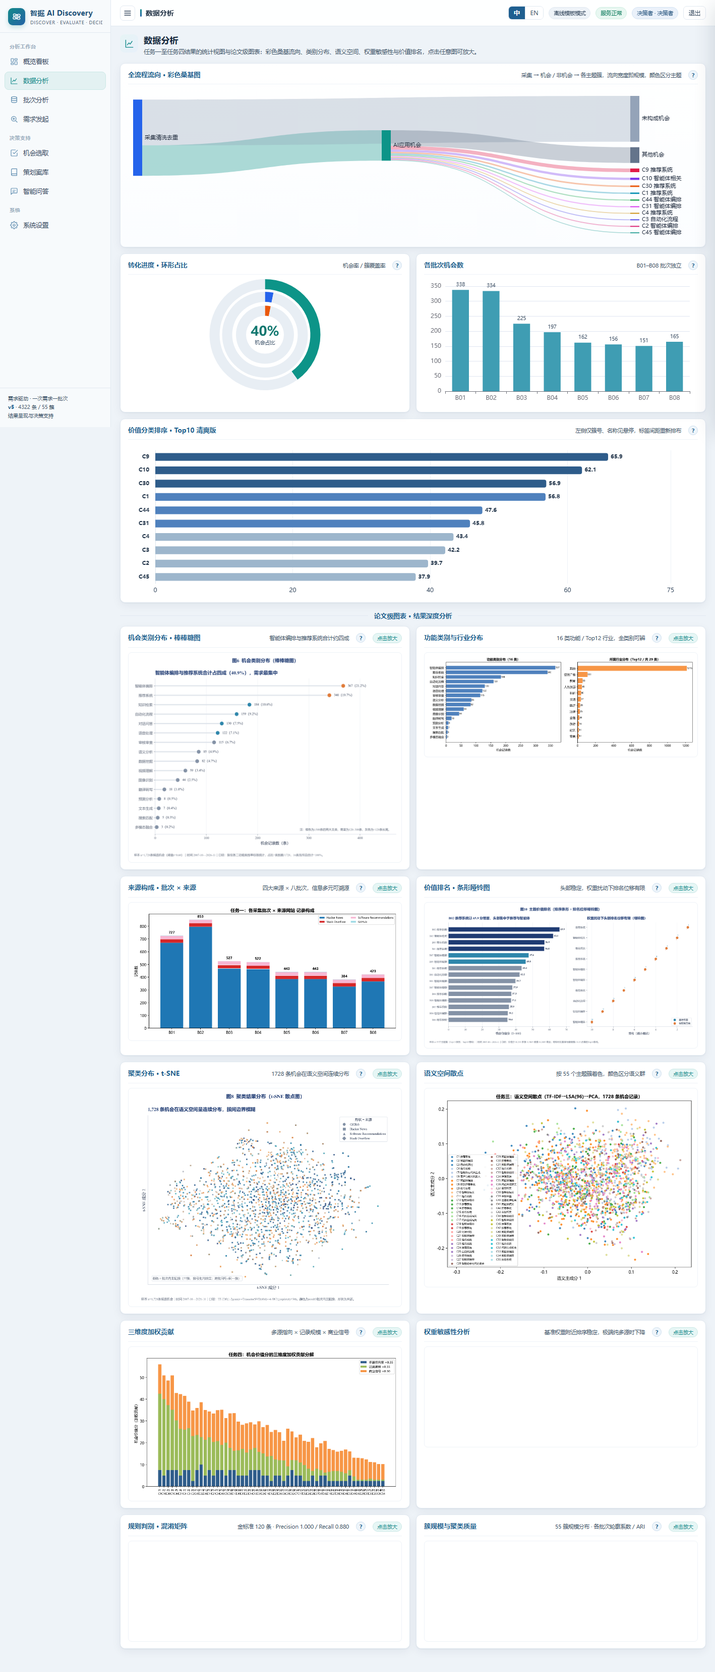
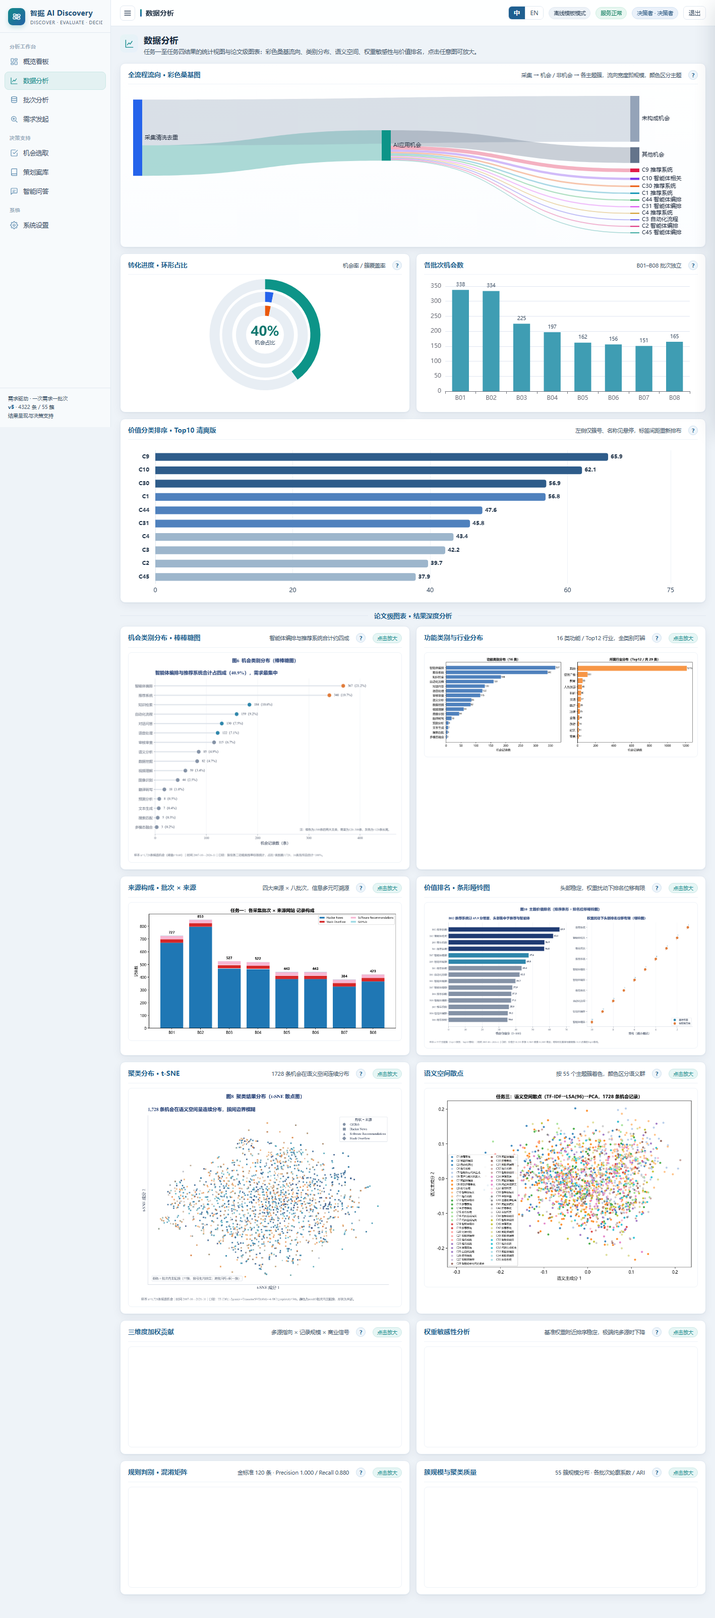
任务五界面v7：概览恢复动态交互图(散点/堆叠柱/来源玫瑰)+悬停tooltip；论文静态图加悬停说明气泡

diff --git a/竞赛提交/源代码和运行说明/任务五/templates/index.html b/竞赛提交/源代码和运行说明/任务五/templates/index.html
@@ -180,7 +180,7 @@
     <section class="page" id="page-overview">
       <div class="page-head">
         <div class="ph-icon"><svg viewBox="0 0 24 24" fill="none" stroke="currentColor" stroke-width="1.8" stroke-linecap="round" stroke-linejoin="round"><rect x="3" y="3" width="7" height="9" rx="1"/><rect x="14" y="3" width="7" height="5" rx="1"/><rect x="14" y="12" width="7" height="9" rx="1"/><rect x="3" y="16" width="7" height="5" rx="1"/></svg></div>
-        <div><h2 data-i18n>概览看板</h2><p data-i18n>任务一至任务四核心结果一览：数据规模、机会分布、主题簇价值与信息多元性。点击任意图可放大查看细节。</p></div>
+        <div><h2 data-i18n>概览看板</h2><p data-i18n>任务一至任务四核心结果一览：数据规模、机会分布、主题簇价值与信息多元性。悬停任意图可查看数值，点击图表可查看说明。</p></div>
       </div>
       <div class="kpis">
         <div class="kpi"><div class="lab" data-i18n>采集清洗去重</div><div class="val" id="kpiRecords">—</div><div class="note" data-i18n>任务一 result1.csv</div></div>
@@ -189,19 +189,18 @@
         <div class="kpi"><div class="lab" data-i18n>最高价值主题簇</div><div class="val" id="kpiTop">—</div><div class="note" id="kpiTopNote" data-i18n>任务四评分</div></div>
       </div>
 
-      <div class="paper-figure card" data-zoom="figures/value_dumbbell.png" data-cap="主题价值排名（排序条形 + 排名位移哑铃图）">
-        <div class="card-head"><h2 data-i18n>主题簇价值排名 · 条形哑铃图</h2><span class="hint" data-i18n>B02 推荐系统以 65.9 分居首，头部集中于推荐与智能体</span><button class="help-btn" data-help="over-rank" data-i18n-title="使用说明" title="使用说明">?</button><span class="zoom-badge" data-i18n>点击放大</span></div>
-        <div class="fig-box"><img src="{{ url_for('static', filename='figures/value_dumbbell.png') }}" alt="主题价值排名条形哑铃图" loading="lazy"></div>
-      </div>
-
-      <div class="grid2" style="margin-top:12px">
-        <div class="paper-figure card" data-zoom="figures/contrib3d.png" data-cap="机会价值分的三维度加权贡献分解">
-          <div class="card-head"><h2 data-i18n>价值分三维度加权贡献</h2><span class="hint" data-i18n>多源指向 × 记录规模 × 商业信号</span><button class="help-btn" data-help="over-contrib" data-i18n-title="使用说明" title="使用说明">?</button><span class="zoom-badge" data-i18n>点击放大</span></div>
-          <div class="fig-box"><img src="{{ url_for('static', filename='figures/contrib3d.png') }}" alt="三维度加权贡献图" loading="lazy"></div>
+      <div class="grid3" style="margin-top:12px">
+        <div class="card">
+          <div class="card-head"><h2 data-i18n>主题簇价值排序</h2><span class="hint" data-i18n>悬停查看簇名、价值分与记录数</span><button class="help-btn" data-help="over-rank" data-i18n-title="使用说明" title="使用说明">?</button></div>
+          <div class="chart" id="chartRank" style="height:250px"></div>
         </div>
-        <div class="paper-figure card" data-zoom="figures/source_composition.png" data-cap="各采集批次 × 来源网站记录构成（信息多元性）">
-          <div class="card-head"><h2 data-i18n>信息来源多元构成</h2><span class="hint" data-i18n>四大来源 × 八批次，多源交叉印证</span><button class="help-btn" data-help="over-heat" data-i18n-title="使用说明" title="使用说明">?</button><span class="zoom-badge" data-i18n>点击放大</span></div>
-          <div class="fig-box"><img src="{{ url_for('static', filename='figures/source_composition.png') }}" alt="各批次来源构成图" loading="lazy"></div>
+        <div class="card">
+          <div class="card-head"><h2 data-i18n>价值分三维度贡献</h2><span class="hint" data-i18n>悬停查看各维度得分</span><button class="help-btn" data-help="over-contrib" data-i18n-title="使用说明" title="使用说明">?</button></div>
+          <div class="chart" id="chartContrib" style="height:250px"></div>
+        </div>
+        <div class="card">
+          <div class="card-head"><h2 data-i18n>信息来源多元构成</h2><span class="hint" data-i18n>悬停查看各来源记录数与占比</span><button class="help-btn" data-help="over-source" data-i18n-title="使用说明" title="使用说明">?</button></div>
+          <div class="chart" id="chartSource" style="height:250px"></div>
         </div>
       </div>
     </section>
@@ -312,55 +311,55 @@
       <div class="section-divider" style="margin-top:18px"><span data-i18n>论文级图表 · 结果深度分析</span></div>
 
       <div class="grid2" style="margin-top:12px">
-        <div class="paper-figure card" data-zoom="figures/lollipop.png" data-cap="机会类别分布（棒棒糖图）">
+        <div class="paper-figure card" data-zoom="figures/lollipop.png" data-desc="棒棒糖图：每个圆点代表一类应用机会，点的位置表示该类机会的记录规模。智能体编排与推荐系统合计约占四成，是机会最集中的两类。" data-cap="机会类别分布（棒棒糖图）">
           <div class="card-head"><h2 data-i18n>机会类别分布 · 棒棒糖图</h2><span class="hint" data-i18n>智能体编排与推荐系统合计约四成</span><button class="help-btn" data-help="ins-func" data-i18n-title="使用说明" title="使用说明">?</button><span class="zoom-badge" data-i18n>点击放大</span></div>
           <div class="fig-box"><img src="{{ url_for('static', filename='figures/lollipop.png') }}" alt="机会类别分布棒棒糖图" loading="lazy"></div>
         </div>
-        <div class="paper-figure card" data-zoom="figures/func_industry.png" data-cap="功能类别与行业分布">
+        <div class="paper-figure card" data-zoom="figures/func_industry.png" data-desc="分组条形图：上半部分展示16类功能类别分布，下半部分展示Top12行业分布，全部类别均可辨识，避免“其他”占比过高掩盖细节。" data-cap="功能类别与行业分布">
           <div class="card-head"><h2 data-i18n>功能类别与行业分布</h2><span class="hint" data-i18n>16 类功能 / Top12 行业，全类别可辨</span><button class="help-btn" data-help="ins-ind" data-i18n-title="使用说明" title="使用说明">?</button><span class="zoom-badge" data-i18n>点击放大</span></div>
           <div class="fig-box"><img src="{{ url_for('static', filename='figures/func_industry.png') }}" alt="功能类别与行业分布图" loading="lazy"></div>
         </div>
       </div>
 
       <div class="grid2" style="margin-top:12px">
-        <div class="paper-figure card" data-zoom="figures/source_composition.png" data-cap="各采集批次 × 来源网站记录构成">
+        <div class="paper-figure card" data-zoom="figures/source_composition.png" data-desc="堆叠柱状图：横轴为B01–B08八个采集批次，每段颜色代表一个来源网站。四色交叉出现说明信息来自多个公开渠道，可溯源、更可信。" data-cap="各采集批次 × 来源网站记录构成">
           <div class="card-head"><h2 data-i18n>来源构成 · 批次 × 来源</h2><span class="hint" data-i18n>四大来源 × 八批次，信息多元可溯源</span><button class="help-btn" data-help="ins-source" data-i18n-title="使用说明" title="使用说明">?</button><span class="zoom-badge" data-i18n>点击放大</span></div>
           <div class="fig-box"><img src="{{ url_for('static', filename='figures/source_composition.png') }}" alt="批次来源构成图" loading="lazy"></div>
         </div>
-        <div class="paper-figure card" data-zoom="figures/value_dumbbell.png" data-cap="主题价值排名（条形 + 排名位移哑铃图）">
+        <div class="paper-figure card" data-zoom="figures/value_dumbbell.png" data-desc="哑铃图：横轴为机会价值分，两个端点分别表示基准排序与权重扰动后的排序。连线越短说明该主题簇在权重变化下排名越稳定，头部簇基本不动。" data-cap="主题价值排名（条形 + 排名位移哑铃图）">
           <div class="card-head"><h2 data-i18n>价值排名 · 条形哑铃图</h2><span class="hint" data-i18n>头部稳定，权重扰动下排名位移有限</span><button class="help-btn" data-help="ins-value" data-i18n-title="使用说明" title="使用说明">?</button><span class="zoom-badge" data-i18n>点击放大</span></div>
           <div class="fig-box"><img src="{{ url_for('static', filename='figures/value_dumbbell.png') }}" alt="价值排名条形哑铃图" loading="lazy"></div>
         </div>
       </div>
 
       <div class="grid2" style="margin-top:12px">
-        <div class="paper-figure card" data-zoom="figures/tsne.png" data-cap="聚类结果分布（t-SNE 散点图）">
+        <div class="paper-figure card" data-zoom="figures/tsne.png" data-desc="t-SNE散点图：把1728条机会的高维文本语义压缩到二维平面，每个点是一条机会，颜色代表所属主题簇。同类聚在一起说明聚类效果好。" data-cap="聚类结果分布（t-SNE 散点图）">
           <div class="card-head"><h2 data-i18n>聚类分布 · t-SNE</h2><span class="hint" data-i18n>1728 条机会在语义空间连续分布</span><button class="help-btn" data-help="ins-tsne" data-i18n-title="使用说明" title="使用说明">?</button><span class="zoom-badge" data-i18n>点击放大</span></div>
           <div class="fig-box"><img src="{{ url_for('static', filename='figures/tsne.png') }}" alt="聚类分布t-SNE图" loading="lazy"></div>
         </div>
-        <div class="paper-figure card" data-zoom="figures/semantic_scatter.png" data-cap="语义空间散点（TF-IDF → LSA → PCA）">
+        <div class="paper-figure card" data-zoom="figures/semantic_scatter.png" data-desc="语义空间散点：文本经TF-IDF→LSA→PCA逐步降维后投影到二维，颜色区分55个主题簇。点分布连续说明主题之间存在语义过渡。" data-cap="语义空间散点（TF-IDF → LSA → PCA）">
           <div class="card-head"><h2 data-i18n>语义空间散点</h2><span class="hint" data-i18n>按 55 个主题簇着色，颜色区分语义群</span><button class="help-btn" data-help="ins-semantic" data-i18n-title="使用说明" title="使用说明">?</button><span class="zoom-badge" data-i18n>点击放大</span></div>
           <div class="fig-box"><img src="{{ url_for('static', filename='figures/semantic_scatter.png') }}" alt="语义空间散点图" loading="lazy"></div>
         </div>
       </div>
 
       <div class="grid2" style="margin-top:12px">
-        <div class="paper-figure card" data-zoom="figures/contrib3d.png" data-cap="机会价值分的三维度加权贡献分解">
+        <div class="paper-figure card" data-zoom="figures/contrib3d.png" data-desc="堆叠柱状图：把每个主题簇的价值分拆成多源指向度、记录规模、商业信号三项贡献。柱子越高总分越高，颜色段越宽表示该项贡献越大。" data-cap="机会价值分的三维度加权贡献分解">
           <div class="card-head"><h2 data-i18n>三维度加权贡献</h2><span class="hint" data-i18n>多源指向 × 记录规模 × 商业信号</span><button class="help-btn" data-help="ins-contrib" data-i18n-title="使用说明" title="使用说明">?</button><span class="zoom-badge" data-i18n>点击放大</span></div>
           <div class="fig-box"><img src="{{ url_for('static', filename='figures/contrib3d.png') }}" alt="三维度加权贡献图" loading="lazy"></div>
         </div>
-        <div class="paper-figure card" data-zoom="figures/sensitivity.png" data-cap="权重敏感性分析（热力图 + 小多图 + 参数曲线）">
+        <div class="paper-figure card" data-zoom="figures/sensitivity.png" data-desc="小多图+热力图：改变三项权重时观察Top5主题簇与排序相关系数的变化。基准权重附近曲线平稳，说明排名结论稳健、不依赖单一权重。" data-cap="权重敏感性分析（热力图 + 小多图 + 参数曲线）">
           <div class="card-head"><h2 data-i18n>权重敏感性分析</h2><span class="hint" data-i18n>基准权重附近排序稳定，极端纯多源时下降</span><button class="help-btn" data-help="ins-sens" data-i18n-title="使用说明" title="使用说明">?</button><span class="zoom-badge" data-i18n>点击放大</span></div>
           <div class="fig-box"><img src="{{ url_for('static', filename='figures/sensitivity.png') }}" alt="权重敏感性分析图" loading="lazy"></div>
         </div>
       </div>
 
       <div class="grid2" style="margin-top:12px">
-        <div class="paper-figure card" data-zoom="figures/confusion.png" data-cap="规则判别混淆矩阵（金标准评估）">
+        <div class="paper-figure card" data-zoom="figures/confusion.png" data-desc="混淆矩阵：用120条人工金标准检验规则判别的准确性。主对角线越集中说明判得越准，本模型Precision 1.000、Recall 0.880。" data-cap="规则判别混淆矩阵（金标准评估）">
           <div class="card-head"><h2 data-i18n>规则判别 · 混淆矩阵</h2><span class="hint" data-i18n>金标准 120 条 · Precision 1.000 / Recall 0.880</span><button class="help-btn" data-help="ins-confmat" data-i18n-title="使用说明" title="使用说明">?</button><span class="zoom-badge" data-i18n>点击放大</span></div>
           <div class="fig-box"><img src="{{ url_for('static', filename='figures/confusion.png') }}" alt="混淆矩阵图" loading="lazy"></div>
         </div>
-        <div class="paper-figure card" data-zoom="figures/cluster_quality.png" data-cap="簇规模与聚类质量指标（轮廓系数 / ARI）">
+        <div class="paper-figure card" data-zoom="figures/cluster_quality.png" data-desc="组合图：左侧为55个主题簇的记录数规模分布，右侧为各批次的轮廓系数与ARI指标，用于衡量聚类是否紧凑、批次间是否一致。" data-cap="簇规模与聚类质量指标（轮廓系数 / ARI）">
           <div class="card-head"><h2 data-i18n>簇规模与聚类质量</h2><span class="hint" data-i18n>55 簇规模分布 · 各批次轮廓系数 / ARI</span><button class="help-btn" data-help="ins-quality" data-i18n-title="使用说明" title="使用说明">?</button><span class="zoom-badge" data-i18n>点击放大</span></div>
           <div class="fig-box"><img src="{{ url_for('static', filename='figures/cluster_quality.png') }}" alt="簇规模与质量指标图" loading="lazy"></div>
         </div>
@@ -509,8 +508,10 @@
   <figure>
     <img id="lbImg" src="" alt="">
     <figcaption id="lbCap"></figcaption>
+    <p class="lb-desc" id="lbDesc"></p>
   </figure>
 </div>
+<div id="figTip" role="tooltip"></div>
 
 <div id="toast"></div>
 <script src="{{ url_for('static', filename='app.js') }}"></script>

diff --git a/竞赛提交/源代码和运行说明/任务五/static/app.js b/竞赛提交/源代码和运行说明/任务五/static/app.js
@@ -112,31 +112,40 @@
       records: T('簇内机会记录数'), value: T('机会价值分'), score: T('得分'),
       multi: T('多源指向度'), scale: T('记录规模'), biz: T('商业信号'),
       recordsTip: T('记录数'), sourcesTip: T('来源数'), priorityTip: T('优先级'),
-      valueTip: T('价值分'), countUnit: T('条'),
+      valueTip: T('价值分'), countUnit: T('条'), shareTip: T('占比'),
     };
   }
 
   function initCharts() {
-    // 概览已改为论文级静态图（点击放大），原来的 ECharts 容器已移除
     if (!el('chartRank')) return;
     if (state.chartsReady || typeof echarts === 'undefined' || !state.clusters.length) return;
     state.chartsReady = true;
     const cs = state.clusters;
     const m = state.meta;
     const X = chartText();
+    const TIP = {
+      bg: '#16283c', border: '#3d5266', text: '#eaf2f8',
+      extraCss: 'box-shadow:0 6px 20px rgba(16,40,64,.22);border-radius:7px;',
+    };
 
+    // 图1：主题簇价值排序（气泡散点：记录数 × 价值分，气泡大小=来源数，颜色=优先级）
     const rank = echarts.init(el('chartRank'));
     rank.setOption({
-      grid: { left: 52, right: 22, top: 18, bottom: 42 },
+      grid: { left: 52, right: 22, top: 22, bottom: 44 },
       tooltip: {
+        backgroundColor: TIP.bg, borderColor: TIP.border, textStyle: { color: TIP.text, fontSize: 12 },
+        extraCssText: TIP.extraCss,
         formatter: (p) => {
           const d = p.data;
-          return '<b>' + d[5] + ' ' + d[6] + '</b><br/>' + X.recordsTip + '：' + d[0] + '<br/>' + X.valueTip + '：' + d[1] +
-            '<br/>' + X.sourcesTip + '：' + d[2] + '<br/>' + X.priorityTip + '：' + d[3];
+          return '<b>' + d[5] + ' ' + d[6] + '</b><br/>' + X.recordsTip + '：' + d[0] + ' ' + X.countUnit +
+            '<br/>' + X.valueTip + '：' + d[1] + '<br/>' + X.sourcesTip + '：' + d[2] +
+            '<br/>' + X.priorityTip + '：#' + d[3];
         },
       },
-      xAxis: { name: X.records, nameGap: 22, nameLocation: 'middle', splitLine: { lineStyle: { color: '#eef2f7' } } },
-      yAxis: { name: X.value, nameGap: 36, nameLocation: 'middle', max: 105, splitLine: { lineStyle: { color: '#eef2f7' } } },
+      xAxis: { name: X.records, nameGap: 22, nameLocation: 'middle', nameTextStyle: { color: '#33465c' },
+        splitLine: { lineStyle: { color: '#eef2f7' } }, axisLabel: { color: '#33465c' } },
+      yAxis: { name: X.value, nameGap: 36, nameLocation: 'middle', nameTextStyle: { color: '#33465c' },
+        max: 105, splitLine: { lineStyle: { color: '#eef2f7' } }, axisLabel: { color: '#33465c' } },
       series: [{
         type: 'scatter',
         data: cs.map((c) => [c.size, c.score, c.sources.length, c.priority, c.cid, c.cid, c.name]),
@@ -145,53 +154,62 @@
           color: (p) => (p.data[3] <= 3 ? '#C0504D' : p.data[3] <= 8 ? '#4F81BD' : '#8AA0B6'),
           opacity: 0.86, borderColor: '#fff', borderWidth: 1.5,
         },
-        label: { show: true, position: 'top', fontSize: 10, color: '#41576e',
+        emphasis: { scale: 1.35, itemStyle: { shadowBlur: 12, shadowColor: 'rgba(16,40,64,.35)' } },
+        label: { show: true, position: 'top', fontSize: 10, color: '#33465c',
           formatter: (p) => (p.data[3] <= 6 ? p.data[4] : '') },
       }],
     });
     state.charts.rank = rank;
 
+    // 图2：价值分三维度贡献（Top8 堆叠柱，悬停显示全部维度）
     const top8 = cs.slice(0, 8);
     const contrib = echarts.init(el('chartContrib'));
     contrib.setOption({
       color: ['#2E5C8A', '#4F81BD', '#3F9DB3'],
-      tooltip: { trigger: 'axis', axisPointer: { type: 'shadow' } },
-      legend: { top: 0, itemWidth: 11, itemHeight: 7, textStyle: { fontSize: 10 } },
+      tooltip: {
+        trigger: 'axis', axisPointer: { type: 'shadow' },
+        backgroundColor: TIP.bg, borderColor: TIP.border, textStyle: { color: TIP.text, fontSize: 12 },
+        extraCssText: TIP.extraCss,
+      },
+      legend: { top: 0, itemWidth: 11, itemHeight: 7, textStyle: { fontSize: 10, color: '#33465c' } },
       grid: { left: 42, right: 16, top: 34, bottom: 44 },
-      xAxis: { type: 'category', data: top8.map((c) => c.cid), axisLabel: { fontSize: 10 } },
-      yAxis: { max: 300, splitLine: { lineStyle: { color: '#eef2f7' } }, name: X.score, nameGap: 22 },
+      xAxis: { type: 'category', data: top8.map((c) => c.cid), axisLabel: { fontSize: 10, color: '#33465c' } },
+      yAxis: { max: 300, splitLine: { lineStyle: { color: '#eef2f7' } }, name: X.score, nameTextStyle: { color: '#33465c' }, axisLabel: { color: '#33465c' } },
       series: [
-        { name: X.multi, type: 'bar', stack: 'd', data: top8.map((c) => c.dims.src), barWidth: 16 },
-        { name: X.scale, type: 'bar', stack: 'd', data: top8.map((c) => c.dims.size) },
-        { name: X.biz, type: 'bar', stack: 'd', data: top8.map((c) => c.dims.biz) },
+        { name: X.multi, type: 'bar', stack: 'd', data: top8.map((c) => c.dims.src), barWidth: 16,
+          emphasis: { focus: 'series' } },
+        { name: X.scale, type: 'bar', stack: 'd', data: top8.map((c) => c.dims.size), emphasis: { focus: 'series' } },
+        { name: X.biz, type: 'bar', stack: 'd', data: top8.map((c) => c.dims.biz), emphasis: { focus: 'series' } },
       ],
     });
     state.charts.contrib = contrib;
 
+    // 图3：信息来源多元构成（南丁格尔玫瑰图，悬停查看记录数与占比）——替换原覆盖热力图
     const SHORT = { '阿里云开发者社区': '阿里云', 'Stack Overflow': 'StackOverflow' };
-    const srcNames = m.sources.slice(0, 8).map((s) => {
-      const n = SHORT[s.name] || s.name;
-      return n.length > 7 ? n.slice(0, 7) + '…' : n;
+    const srcRows = (m.sources || []).map((s) => ({ name: SHORT[s.name] || s.name, value: s.count }));
+    const srcTotal = srcRows.reduce((a, b) => a + b.value, 0) || 1;
+    const source = echarts.init(el('chartSource'));
+    source.setOption({
+      color: ['#2E5C8A', '#4F81BD', '#3F9DB3', '#7BA24A', '#E8A33D', '#8E6BBF', '#C0504D', '#5BA8A0'],
+      tooltip: {
+        trigger: 'item',
+        backgroundColor: TIP.bg, borderColor: TIP.border, textStyle: { color: TIP.text, fontSize: 12 },
+        extraCssText: TIP.extraCss,
+        formatter: (p) => '<b>' + p.name + '</b><br/>' + X.recordsTip + '：' + p.value + ' ' + X.countUnit +
+          '<br/>' + X.shareTip + '：' + (p.value / srcTotal * 100).toFixed(1) + '%',
+      },
+      legend: { type: 'scroll', orient: 'vertical', right: 4, top: 'center', itemWidth: 10, itemHeight: 8,
+        textStyle: { fontSize: 10, color: '#33465c' } },
+      series: [{
+        type: 'pie', radius: [22, 88], center: ['38%', '54%'], roseType: 'area',
+        itemStyle: { borderColor: '#fff', borderWidth: 2, borderRadius: 4 },
+        label: { show: true, fontSize: 10, color: '#33465c', formatter: '{d}%' },
+        labelLine: { length: 6, length2: 6 },
+        emphasis: { scale: true, scaleSize: 6, itemStyle: { shadowBlur: 14, shadowColor: 'rgba(16,40,64,.35)' } },
+        data: srcRows,
+      }],
     });
-    const heatData = [];
-    cs.forEach((c, yi) => {
-      srcNames.forEach((sn, xi) => {
-        const f = c.sources.find((s) => s.name === sn);
-        heatData.push([xi, yi, f ? f.count : 0]);
-      });
-    });
-    const heat = echarts.init(el('chartHeat'));
-    heat.setOption({
-      tooltip: { formatter: (p) => srcNames[p.data[0]] + ' × ' + cs[p.data[1]].cid + '：' + p.data[2] + ' ' + X.countUnit },
-      grid: { left: 60, right: 18, top: 14, bottom: 56 },
-      xAxis: { type: 'category', data: srcNames, axisLabel: { rotate: 32, fontSize: 9 } },
-      yAxis: { type: 'category', data: cs.map((c) => c.cid), axisLabel: { fontSize: 9 }, inverse: true },
-      visualMap: { min: 0, max: Math.max(3, ...heatData.map((d) => d[2])), orient: 'horizontal',
-        left: 'center', bottom: 0, itemWidth: 11, itemHeight: 76, textStyle: { fontSize: 9 },
-        inRange: { color: ['#f3f7fc', '#9dbfdc', '#4F81BD', '#2E5C8A'] } },
-      series: [{ type: 'heatmap', data: heatData, itemStyle: { borderColor: '#fff', borderWidth: 1 } }],
-    });
-    state.charts.heat = heat;
+    state.charts.source = source;
   }
 
   function disposeCharts() {
@@ -490,11 +508,39 @@
     if (currentPage === 'overview') { disposeCharts(); initCharts(); setTimeout(resizeCharts, 80); }
   });
 
-  /* ---------------- 论文图放大预览 ---------------- */
+  /* ---------------- 论文图放大预览 + 悬停说明 ---------------- */
   (function bindLightbox() {
     const box = el('figLightbox');
     if (!box) return;
-    const img = el('lbImg'), cap = el('lbCap'), close = el('lbClose');
+    const img = el('lbImg'), cap = el('lbCap'), desc = el('lbDesc'), close = el('lbClose');
+    const tip = el('figTip');
+
+    // 悬停：在图上方浮出“这是什么”的说明，并轻微放大
+    if (tip) {
+      let hideTimer = null;
+      document.addEventListener('mouseover', (e) => {
+        const card = e.target.closest('.paper-figure');
+        if (!card || card.contains(e.relatedTarget)) return;
+        const text = card.getAttribute('data-desc') || card.getAttribute('data-cap') || '';
+        if (!text) return;
+        tip.textContent = text;
+        tip.classList.add('show');
+        const r = card.getBoundingClientRect();
+        // 默认定位在卡片顶部，超出视口上边则放到底部
+        let top = r.top - tip.offsetHeight - 10;
+        if (top < 8) top = Math.min(r.bottom + 10, window.innerHeight - tip.offsetHeight - 8);
+        let left = r.left + r.width / 2 - tip.offsetWidth / 2;
+        left = Math.max(8, Math.min(left, window.innerWidth - tip.offsetWidth - 8));
+        tip.style.top = top + 'px';
+        tip.style.left = left + 'px';
+      });
+      document.addEventListener('mouseout', (e) => {
+        const card = e.target.closest('.paper-figure');
+        if (!card || card.contains(e.relatedTarget)) return;
+        tip.classList.remove('show');
+      });
+    }
+
     document.addEventListener('click', (e) => {
       const card = e.target.closest('.paper-figure');
       if (!card) return;
@@ -505,7 +551,9 @@
       img.src = '/static/' + zoom;
       img.alt = card.getAttribute('data-cap') || '';
       cap.textContent = card.getAttribute('data-cap') || '';
+      if (desc) desc.textContent = card.getAttribute('data-desc') || '';
       box.classList.add('open');
+      if (tip) tip.classList.remove('show');
     });
     const hide = () => { box.classList.remove('open'); img.src = ''; };
     close.addEventListener('click', hide);

diff --git a/竞赛提交/源代码和运行说明/任务五/static/i18n.js b/竞赛提交/源代码和运行说明/任务五/static/i18n.js
@@ -180,13 +180,16 @@
     '批次 <b>{b}</b> 正在采集与计算，页面会自动刷新（通常 20–90 秒）。': 'Batch <b>{b}</b> is collecting and computing; this page auto-refreshes (usually 20–90 s).',
     /* 概览 / 数据分析：论文级图表 */
     '点击放大': 'Click to zoom',
-    '任务一至任务四核心结果一览：数据规模、机会分布、主题簇价值与信息多元性。点击任意图可放大查看细节。': 'Core results from Tasks 1–4: data scale, opportunity distribution, cluster value and source diversity. Click any figure to enlarge.',
-    '主题簇价值排名 · 条形哑铃图': 'Cluster value ranking · bar & dumbbell',
-    'B02 推荐系统以 65.9 分居首，头部集中于推荐与智能体': 'B02 recommender leads at 65.9; top clusters concentrate in recommendation & agents',
-    '价值分三维度加权贡献': '3-dimension weighted value contribution',
-    '多源指向 × 记录规模 × 商业信号': 'Multi-source × record scale × business signal',
+    '悬停查看数值': 'Hover for values',
+    '占比': 'Share',
+    '记录数': 'Records', '来源数': 'Sources', '优先级': 'Priority',
+    '任务一至任务四核心结果一览：数据规模、机会分布、主题簇价值与信息多元性。悬停任意图可查看数值，点击图表可查看说明。': 'Core results from Tasks 1–4: data scale, opportunity distribution, cluster value and source diversity. Hover any chart for values.',
+    '主题簇价值排序': 'Cluster value ranking',
+    '悬停查看簇名、价值分与记录数': 'Hover for cluster name, value and record count',
+    '价值分三维度贡献': '3-dimension value contribution',
+    '悬停查看各维度得分': 'Hover for each dimension score',
     '信息来源多元构成': 'Diverse source composition',
-    '四大来源 × 八批次，多源交叉印证': '4 sources × 8 batches, cross-validated',
+    '悬停查看各来源记录数与占比': 'Hover for record count and share per source',
     '任务一至任务四结果的统计视图与论文级图表：彩色桑基流向、类别分布、语义空间、权重敏感性与价值排名，点击任意图可放大。': 'Statistics and publication-quality figures from Tasks 1–4: Sankey flow, category distribution, semantic space, weight sensitivity and value ranking. Click to enlarge.',
     '论文级图表 · 结果深度分析': 'Publication figures · in-depth analysis',
     '机会类别分布 · 棒棒糖图': 'Opportunity categories · lollipop',
@@ -270,9 +273,9 @@
       zh: ['价值分三维度贡献', '<p>前 8 个簇的价值分堆叠拆解：多源指向度、记录规模、商业信号。可看出每个簇的高分主要来自哪个维度。</p>'],
       en: ['3-dimension value breakdown', '<p>Stacked value scores of the top 8 clusters: multi-source, record scale and business signal. See which dimension drives each cluster’s score.</p>']
     },
-    'over-heat': {
-      zh: ['主题簇 × 来源覆盖', '<p>热力图显示每个簇在各来源网站上的记录数，颜色越深越多。多个来源共同指向同一簇，说明该需求方向更可信。</p>'],
-      en: ['Clusters × source coverage', '<p>Heatmap of record counts per cluster and source; darker means more. Multiple sources pointing to one cluster indicate more credible demand.</p>']
+    'over-source': {
+      zh: ['信息来源多元构成', '<p>南丁格尔玫瑰图（扇形半径随记录数变化）：每个扇形是一个公开采集来源，面积越大表示该来源贡献的记录越多。</p><p>四个来源并存、半径相近，说明信息来自多个独立渠道而非单一站点，多源交叉印证使机会判别更可信。鼠标悬停可看具体记录数与占比。</p>'],
+      en: ['Diverse source composition', '<p>Nightingale rose chart (sector radius scales with record count): each sector is a public collection source; larger area means more records contributed.</p><p>Four comparable sources show information comes from multiple independent channels rather than a single site — cross-validation makes detection more credible. Hover for exact counts and shares.</p>']
     },
     'ins-sankey': {
       zh: ['彩色桑基流向图', '<p>从「采集清洗去重」出发，分成「AI 应用机会」与「未构成机会」，再流向各主题簇。<b>流向宽度 = 记录规模</b>，颜色区分主题。鼠标悬停可看具体数值。</p><p>这是替代传统漏斗的呈现方式，数据来自基线 4322 条。</p>'],

diff --git a/竞赛提交/源代码和运行说明/任务五/static/style.css b/竞赛提交/源代码和运行说明/任务五/static/style.css
@@ -127,10 +127,21 @@ section.page{max-width:1500px;margin:0 auto}
 .paper-figure .fig-box{background:#fff;border:1px solid var(--line-2);border-radius:7px;
   padding:6px;display:flex;align-items:center;justify-content:center;overflow:hidden;min-height:200px}
 .paper-figure .fig-box img{display:block;width:100%;height:auto;max-height:420px;object-fit:contain;
-  transition:transform .2s ease}
-.paper-figure:hover .fig-box img{transform:scale(1.015)}
+  transition:transform .22s ease}
+.paper-figure:hover .fig-box img{transform:scale(1.06)}
+.paper-figure:hover .fig-box{border-color:var(--accent);box-shadow:0 4px 16px rgba(16,40,64,.09)}
 .zoom-badge{margin-left:6px;font-size:10px;color:var(--accent);background:#e6f6f5;border:1px solid #cbe8e6;
   border-radius:10px;padding:2px 8px;white-space:nowrap;order:6;flex:0 0 auto}
+
+/* 悬停说明气泡：“这是什么” */
+#figTip{position:fixed;z-index:65;max-width:360px;padding:10px 13px;border-radius:8px;
+  background:rgba(16,40,64,.96);color:#eaf2f8;font-size:11.5px;line-height:1.65;
+  box-shadow:0 8px 26px rgba(9,25,42,.3);border:1px solid #3d5266;
+  opacity:0;visibility:hidden;transform:translateY(4px);transition:opacity .16s,transform .16s,visibility .16s;
+  pointer-events:none}
+#figTip.show{opacity:1;visibility:visible;transform:translateY(0)}
+#figTip::after{content:"";position:absolute;left:50%;bottom:-6px;margin-left:-6px;
+  border-left:6px solid transparent;border-right:6px solid transparent;border-top:6px solid rgba(16,40,64,.96)}
 
 /* ---------- 图片放大预览 ---------- */
 #figLightbox{position:fixed;inset:0;background:rgba(9,25,42,.92);backdrop-filter:blur(3px);z-index:70;
@@ -139,7 +150,8 @@ section.page{max-width:1500px;margin:0 auto}
 #figLightbox figure{margin:0;max-width:96vw;max-height:94vh;display:flex;flex-direction:column;align-items:center;gap:12px}
 #figLightbox img{max-width:96vw;max-height:86vh;object-fit:contain;background:#fff;border-radius:6px;
   box-shadow:0 20px 70px rgba(0,0,0,.5)}
-#figLightbox figcaption{color:#e6eef6;font-size:13px;text-align:center;line-height:1.6}
+#figLightbox figcaption{color:#e6eef6;font-size:13px;text-align:center;line-height:1.6;font-weight:600}
+#figLightbox .lb-desc{color:#bcd0e2;font-size:12px;text-align:center;line-height:1.7;max-width:820px;margin:2px auto 0}
 #figLightbox .lb-close{position:absolute;top:18px;right:22px;width:40px;height:40px;border:none;border-radius:50%;
   background:rgba(255,255,255,.16);color:#fff;font-size:24px;line-height:1;cursor:pointer;transition:.15s}
 #figLightbox .lb-close:hover{background:rgba(255,255,255,.32)}
